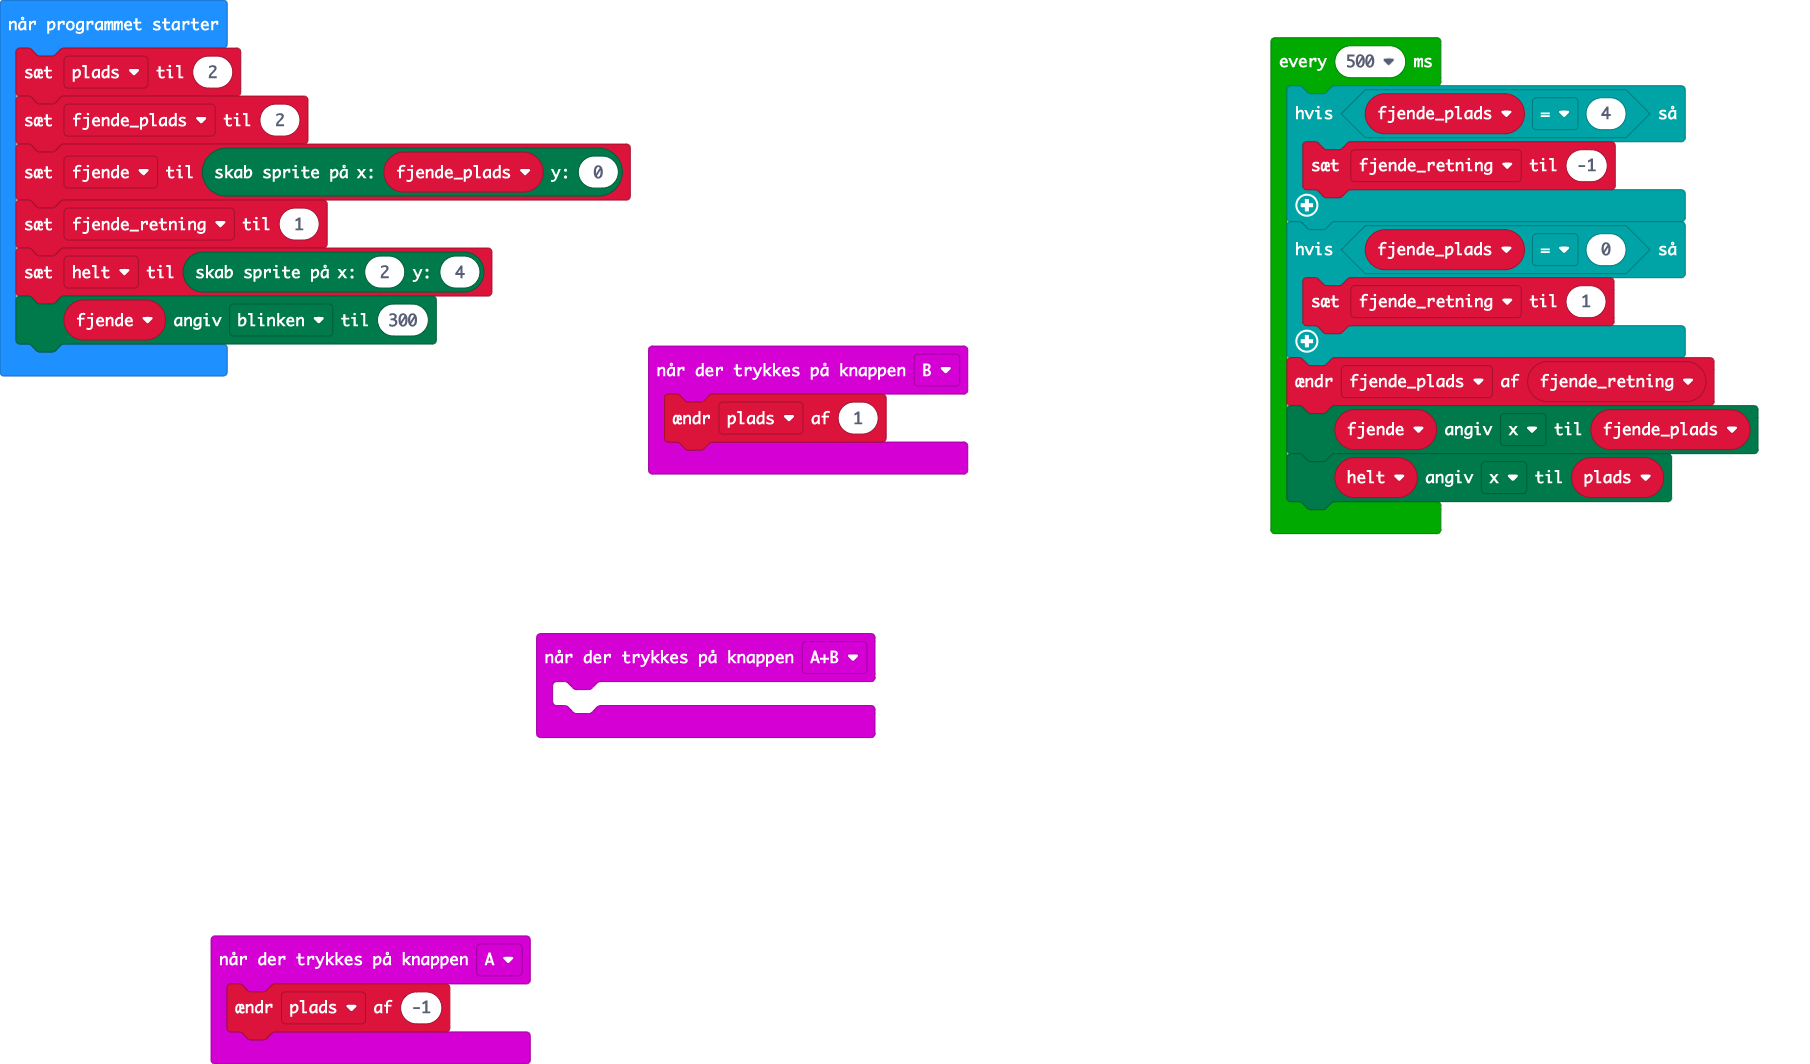
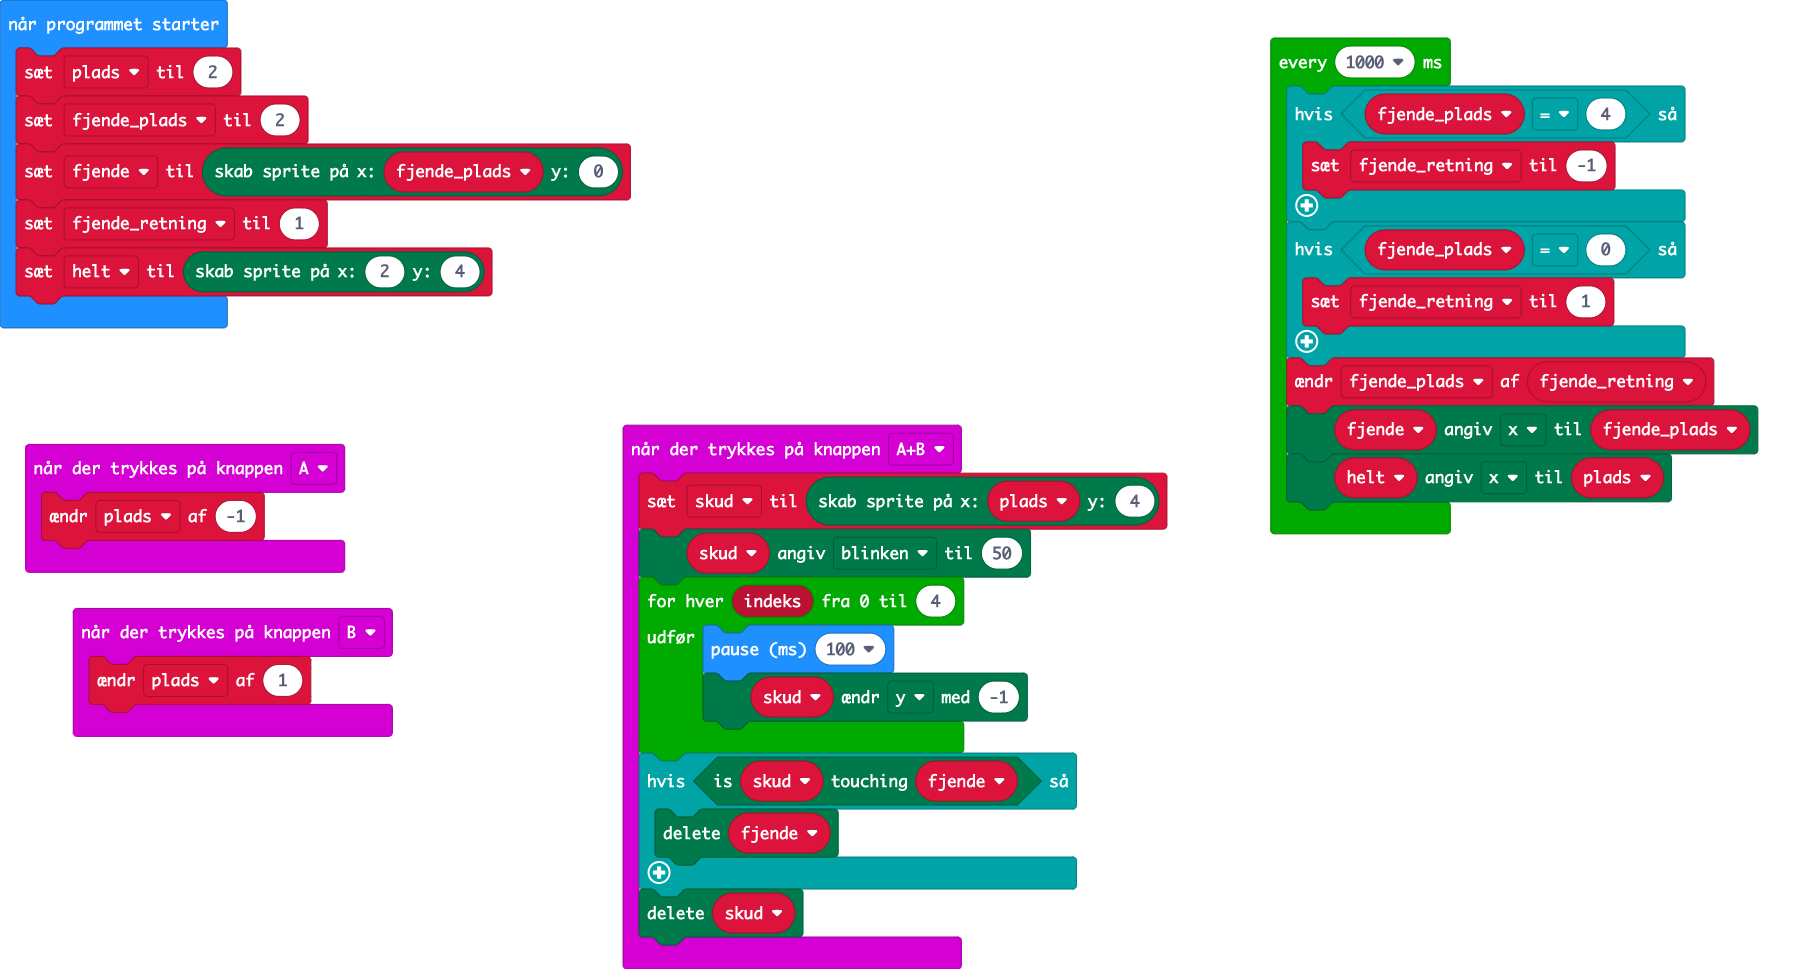
Opdater main.blocks, main.ts

diff --git a/main.ts b/main.ts
@@ -2,18 +2,29 @@ input.onButtonPressed(Button.A, function () {
     plads += -1
 })
 input.onButtonPressed(Button.AB, function () {
-	
+    skud = game.createSprite(plads, 4)
+    skud.set(LedSpriteProperty.Blink, 50)
+    for (let indeks = 0; indeks <= 4; indeks++) {
+        basic.pause(100)
+        skud.change(LedSpriteProperty.Y, -1)
+    }
+    if (skud.isTouching(fjende)) {
+        fjende.delete()
+    }
+    skud.delete()
 })
 input.onButtonPressed(Button.B, function () {
     plads += 1
 })
-let plads = 2
+let skud: game.LedSprite = null
+let fjende: game.LedSprite = null
+let plads = 0
+plads = 2
 let fjende_plads = 2
-let fjende = game.createSprite(fjende_plads, 0)
+fjende = game.createSprite(fjende_plads, 0)
 let fjende_retning = 1
 let helt = game.createSprite(2, 4)
-fjende.set(LedSpriteProperty.Blink, 300)
-loops.everyInterval(500, function () {
+loops.everyInterval(1000, function () {
     if (fjende_plads == 4) {
         fjende_retning = -1
     }
